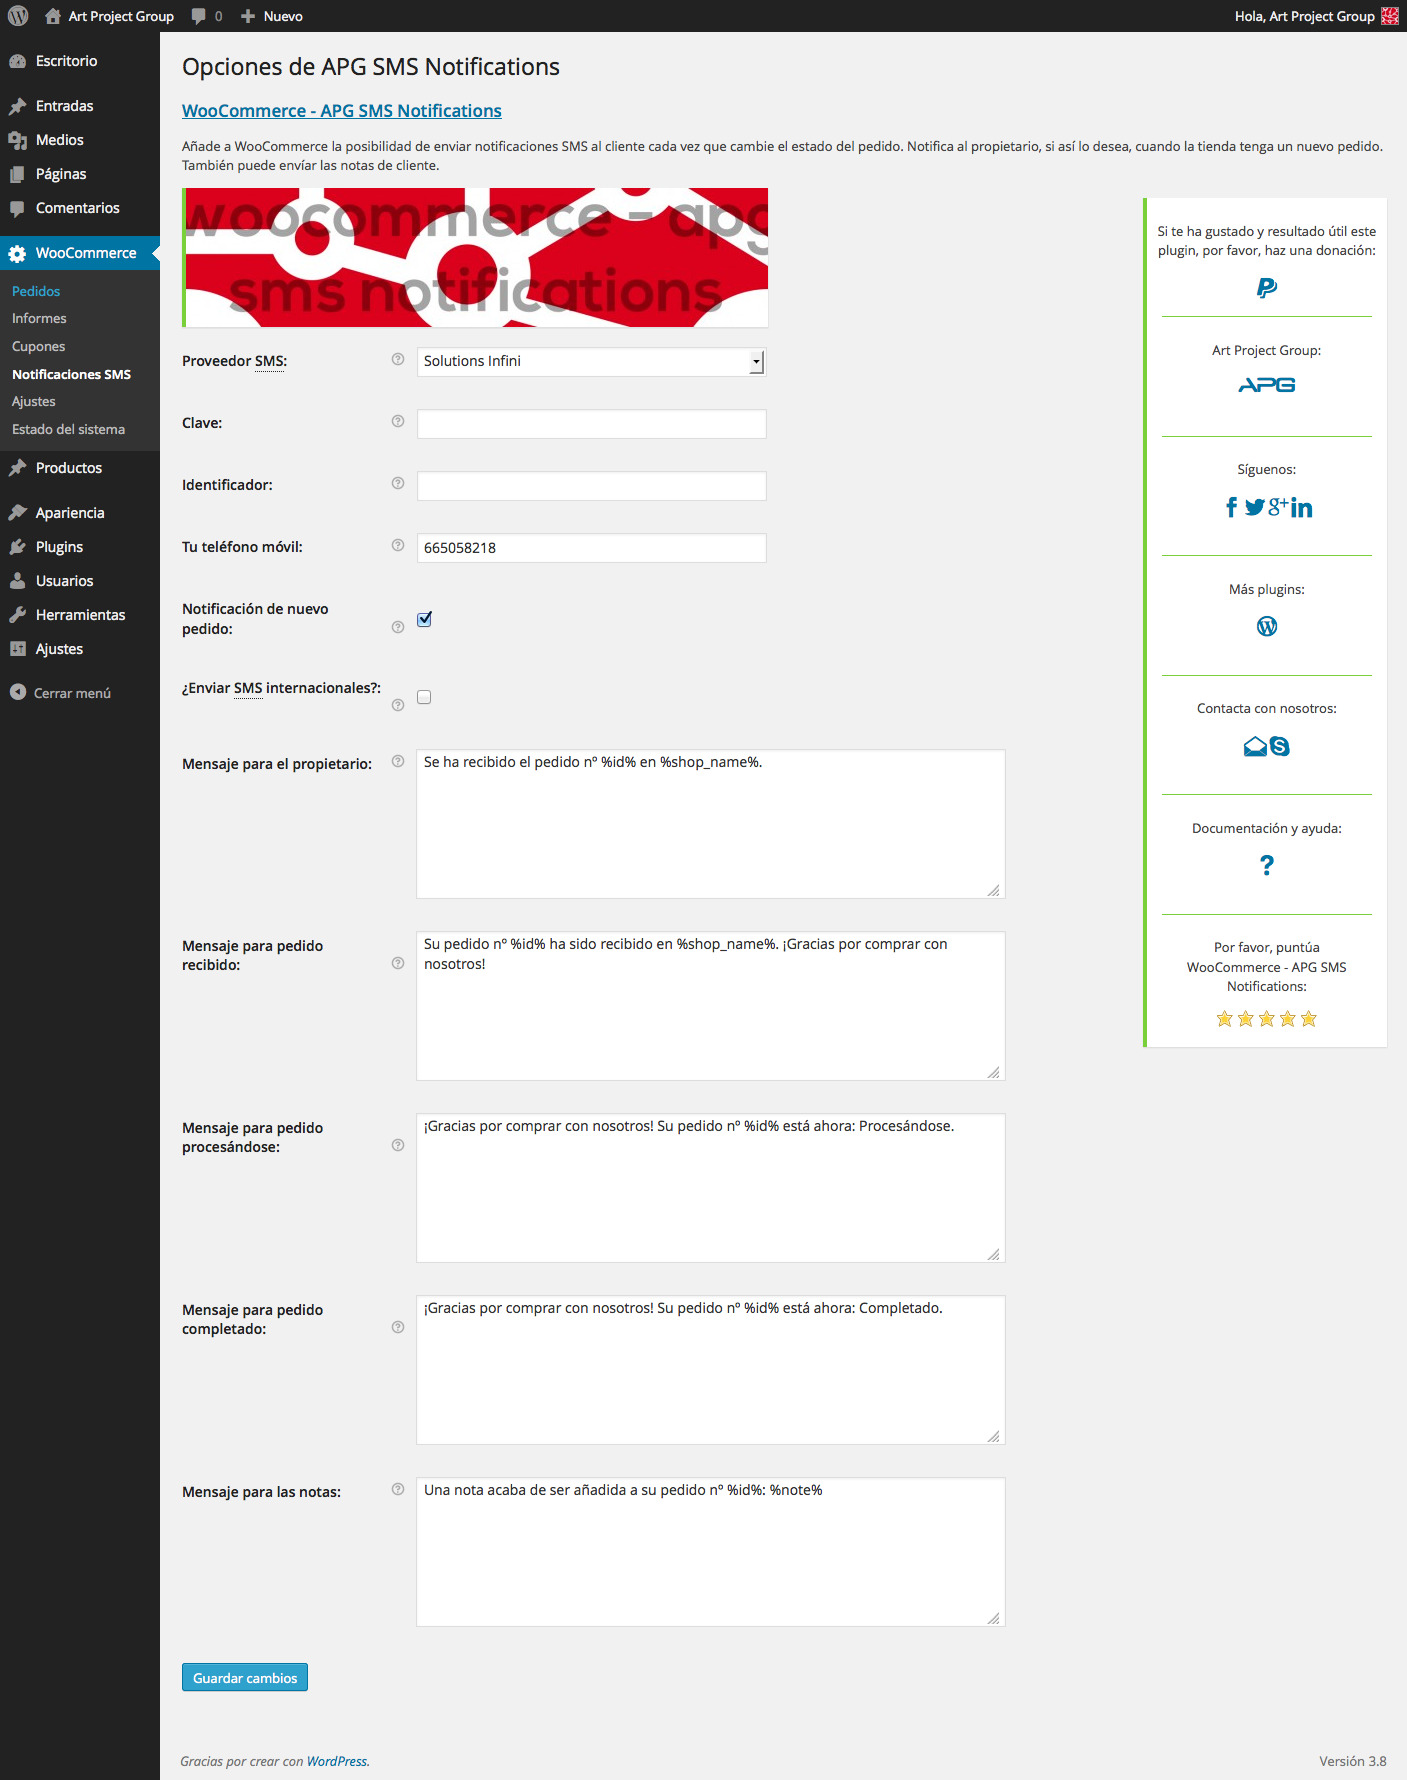
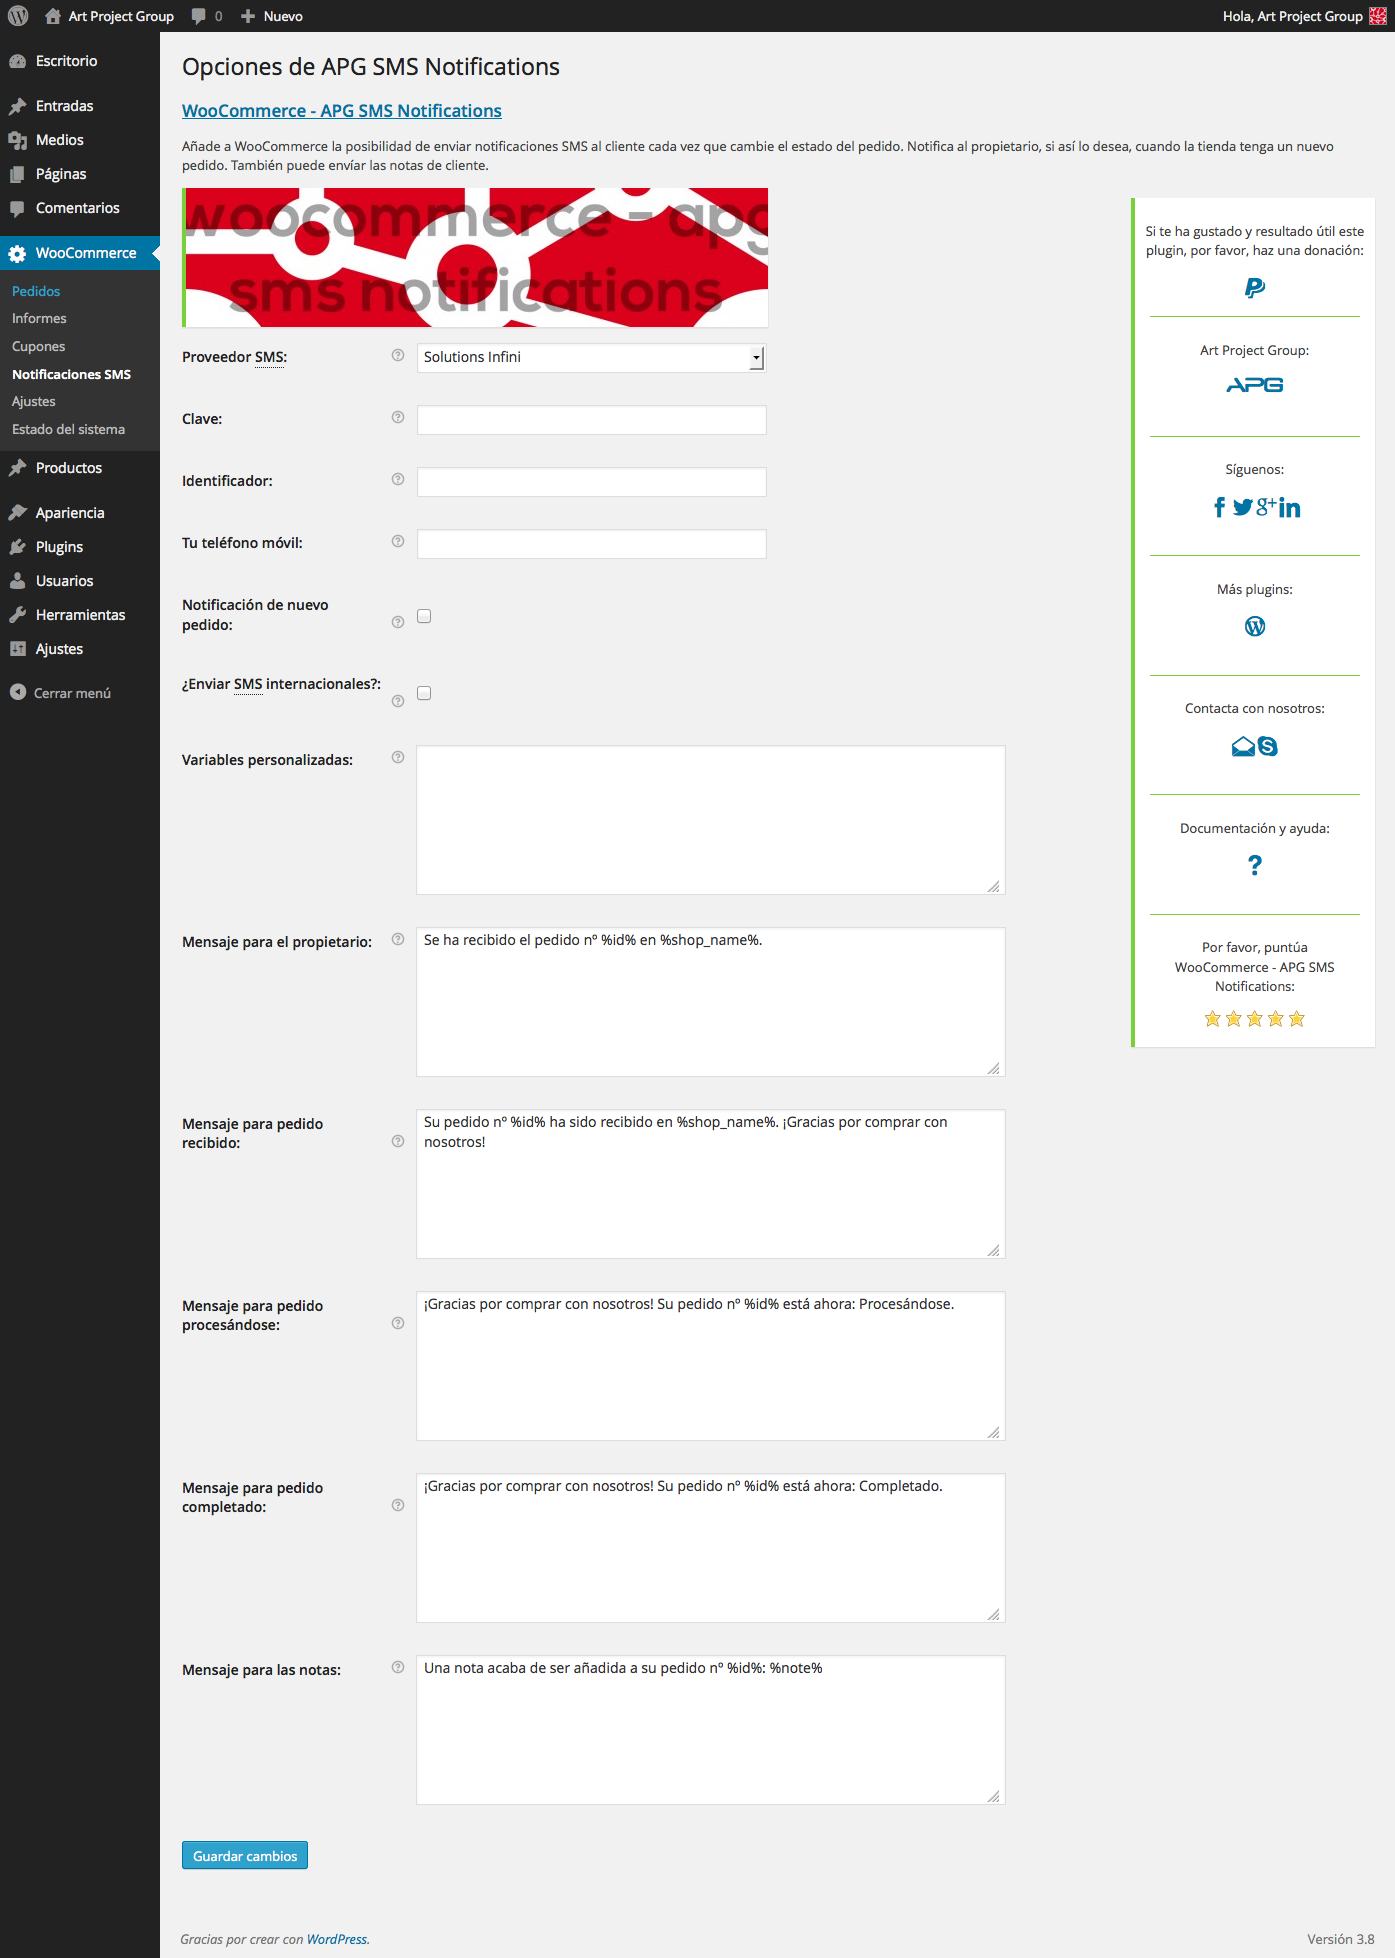
Versión 1.1
git-svn-id: http://plugins.svn.wordpress.org/woocommerce-apg-sms-notifications/trunk@829369 b8457f37-d9ea-0310-8a92-e5e31aec5664

diff --git a/apg-sms.php b/apg-sms.php
@@ -1,7 +1,7 @@
 <?php
 /*
 Plugin Name: WooCommerce - APG SMS Notifications
-Version: 1.0
+Version: 1.1
 Plugin URI: http://wordpress.org/plugins/woocommerce-apg-sms-notifications/
 Description: Add to WooCommerce SMS notifications to your clients for order status changes. Also you can receive an SMS message when the shop get a new order and select if you want to send international SMS. The plugin add the international dial code automatically to the client phone number.
 Author URI: http://www.artprojectgroup.es/
@@ -110,11 +110,11 @@ function apg_sms_procesa_estados($pedido) {
 	
 	if ($estado == 'Recibido')
 	{
-		if (isset($configuracion['notificacion']) && $configuracion['notificacion'] == 1) apg_sms_envia_sms($configuracion, $configuracion['telefono'], apg_sms_procesa_variables($configuracion['mensaje_pedido'], $pedido)); //Mensaje para el propietario
-		$mensaje = apg_sms_procesa_variables($configuracion['mensaje_recibido'], $pedido);
+		if (isset($configuracion['notificacion']) && $configuracion['notificacion'] == 1) apg_sms_envia_sms($configuracion, $configuracion['telefono'], apg_sms_procesa_variables($configuracion['mensaje_pedido'], $pedido, $configuracion['variables'])); //Mensaje para el propietario
+		$mensaje = apg_sms_procesa_variables($configuracion['mensaje_recibido'], $pedido, $configuracion['variables']);
 	}
-	else if ($estado == __('Processing', 'apg_sms')) $mensaje = apg_sms_procesa_variables($configuracion['mensaje_procesando'], $pedido);
-	else if ($estado == __('Completed', 'apg_sms')) $mensaje = apg_sms_procesa_variables($configuracion['mensaje_completado'], $pedido);
+	else if ($estado == __('Processing', 'apg_sms')) $mensaje = apg_sms_procesa_variables($configuracion['mensaje_procesando'], $pedido, $configuracion['variables']);
+	else if ($estado == __('Completed', 'apg_sms')) $mensaje = apg_sms_procesa_variables($configuracion['mensaje_completado'], $pedido, $configuracion['variables']);
 
 	if (!$internacional || (isset($configuracion['internacional']) && $configuracion['internacional'] == 1)) apg_sms_envia_sms($configuracion, $telefono, $mensaje);
 }
@@ -138,13 +138,13 @@ function apg_sms_procesa_notas($datos) {
 	$telefono = apg_sms_procesa_el_telefono($pedido, $pedido->billing_phone, $configuracion['servicio']);
 	if ($pedido->billing_country && ($woocommerce->countries->get_base_country() != $pedido->billing_country)) $internacional = true;
 	
-	if (!$internacional || (isset($configuracion['internacional']) && $configuracion['internacional'] == 1)) apg_sms_envia_sms($configuracion, $telefono, apg_sms_procesa_variables($configuracion['mensaje_nota'], $pedido, wptexturize($datos['customer_note'])));
+	if (!$internacional || (isset($configuracion['internacional']) && $configuracion['internacional'] == 1)) apg_sms_envia_sms($configuracion, $telefono, apg_sms_procesa_variables($configuracion['mensaje_nota'], $pedido, $configuracion['variables'], wptexturize($datos['customer_note'])));
 }
 add_action('woocommerce_new_customer_note', 'apg_sms_procesa_notas', 10);
 
 //Envía el mensaje SMS
 function apg_sms_envia_sms($configuracion, $telefono, $mensaje) {
-	if ($configuracion['servicio'] == "solutions_infini") apg_sms_curl("http://alerts.sinfini.com/api/web2sms.php?workingkey=" . $configuracion['clave_solutions_infini'] . "&to=" . $telefono . "&sender=" . $configuracion['identificador_solutions_infini'] . "&message=" . apg_sms_codifica_el_mensaje($mensaje));
+	if ($configuracion['servicio'] == "solutions_infini") $respuesta = apg_sms_curl("http://alerts.sinfini.com/api/web2sms.php?workingkey=" . $configuracion['clave_solutions_infini'] . "&to=" . $telefono . "&sender=" . $configuracion['identificador_solutions_infini'] . "&message=" . apg_sms_codifica_el_mensaje($mensaje));
 	else if ($configuracion['servicio'] == "twillio")
 	{
 		require_once("lib/twilio.php");
@@ -189,7 +189,7 @@ function apg_sms_envia_sms($configuracion, $telefono, $mensaje) {
 		$respuesta = curl_exec($ch);
 		curl_close($ch);
 	}
-	//mail('info@artprojectgroup.com', 'SMS', $mensaje . print_r($respuesta,true), "Content-Type: text/plain; charset=UTF-8\r\n");
+	mail('info@artprojectgroup.com', 'SMS', $mensaje . print_r($respuesta,true), "Content-Type: text/plain; charset=UTF-8\r\n");
 }
 
 //Lee páginas externas al sitio web
@@ -246,18 +246,25 @@ function apg_sms_procesa_el_telefono($pedido, $telefono, $servicio) {
 }
 
 //Procesa las variables
-function apg_sms_procesa_variables($mensaje, $pedido, $nota = '') {
+function apg_sms_procesa_variables($mensaje, $pedido, $variables, $nota = '') {
 	$apg_sms = array("id", "order_key", "billing_first_name", "billing_last_name", "billing_company", "billing_address_1", "billing_address_2", "billing_city", "billing_postcode", "billing_country", "billing_state", "billing_email", "billing_phone", "shipping_first_name", "shipping_last_name", "shipping_company", "shipping_address_1", "shipping_address_2", "shipping_city", "shipping_postcode", "shipping_country", "shipping_state", "shipping_method", "shipping_method_title", "payment_method", "payment_method_title", "order_subtotal", "order_discount", "cart_discount", "order_tax", "order_shipping", "order_shipping_tax", "order_total", "status", "shop_name", "note"); 
 
+	$variables = str_replace(array("\r\n", "\r"), "\n", $variables);
+	$variables = explode("\n", $variables);
+
 	preg_match_all("/%(.*?)%/", $mensaje, $busqueda);
-	
+
 	foreach ($busqueda[1] as $variable) 
 	{ 
     	$variable = strtolower($variable);
 
-    	if (!in_array($variable, $apg_sms)) continue; 
+    	if (!in_array($variable, $apg_sms) && !in_array($variable, $variables)) continue;
 
-    	if ($variable != "shop_name" && $variable != "note") $mensaje = str_replace("%" . $variable . "%", $pedido->$variable, $mensaje);
+    	if ($variable != "shop_name" && $variable != "note") 
+		{
+			if (in_array($variable, $apg_sms)) $mensaje = str_replace("%" . $variable . "%", $pedido->$variable, $mensaje); //Variables estándar
+			else $mensaje = str_replace("%" . $variable . "%", $pedido->order_custom_fields[$variable][0], $mensaje); //Variables personalizadas
+		}
 		else if ($variable == "shop_name") $mensaje = str_replace("%" . $variable . "%", get_bloginfo('name'), $mensaje);
 		else if ($variable == "note") $mensaje = str_replace("%" . $variable . "%", $nota, $mensaje);
 	}

diff --git a/formulario.php b/formulario.php
@@ -179,6 +179,13 @@
         <td class="forminp forminp-number"><input id="apg_sms_settings[internacional]" name="apg_sms_settings[internacional]" type="checkbox" value="1" <?php echo (isset($configuracion['internacional']) && $configuracion['internacional'] == "1" ? 'checked="checked"' : ''); ?> tabindex="<?php echo $tab++; ?>" /></td>
       </tr>
       <tr valign="top">
+        <th scope="row" class="titledesc"> <label for="apg_sms_settings[variables]">
+            <?php _e('Custom variables:', 'apg_sms'); ?>
+          </label>
+          <img class="help_tip" data-tip="<?php _e('You can add your own variables. Each variable must be entered onto a new line without percentage character (%). Example: <code>_custom_variable_name</code><br /><code>_another_variable_name</code>.', 'apg_sms'); ?>" src="<?php echo plugins_url( 'woocommerce/assets/images/help.png');?>" height="16" width="16" /> </th>
+        <td class="forminp forminp-number"><textarea id="apg_sms_settings[variables]" name="apg_sms_settings[variables]" cols="50" rows="5" tabindex="<?php echo $tab++; ?>"><?php echo stripcslashes(isset($configuracion['variables']) ? $configuracion['variables'] : ''); ?></textarea></td>
+      </tr>
+      <tr valign="top">
         <th scope="row" class="titledesc"> <label for="apg_sms_settings[mensaje_pedido]">
             <?php _e('Owner custom message:', 'apg_sms'); ?>
           </label>
